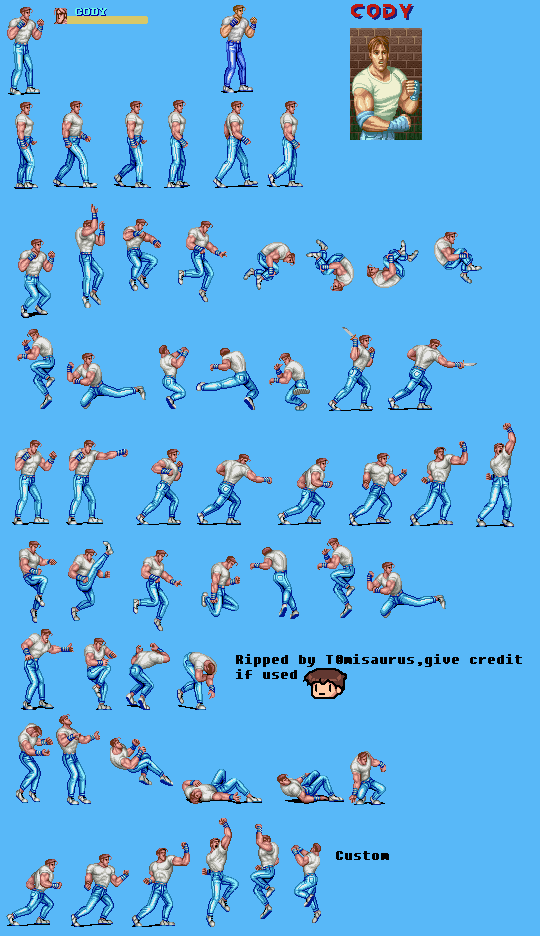
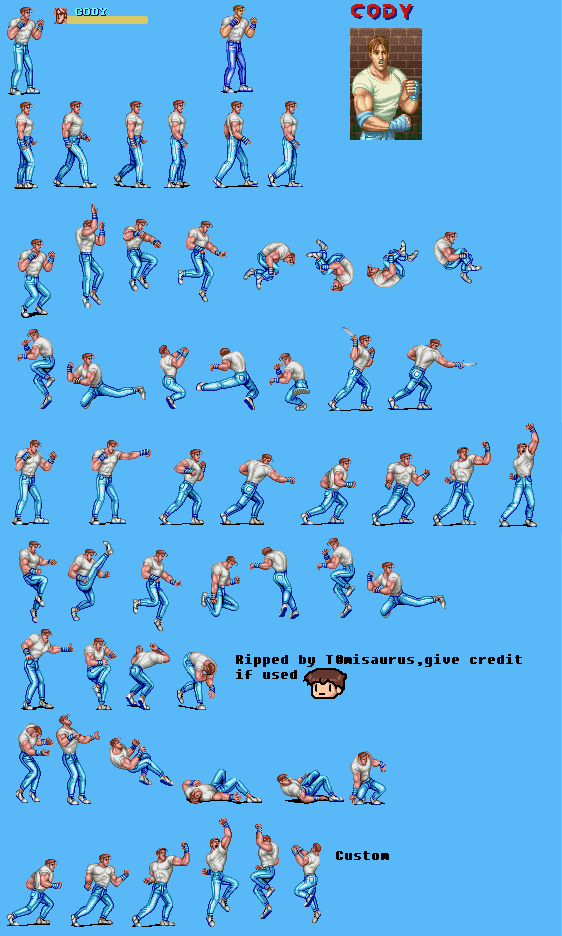
Fix sprite saltando.

diff --git a/estados/Saltando.cpp b/estados/Saltando.cpp
@@ -9,71 +9,71 @@
 #include "Caminando.h"
 
 Saltando::Saltando() {
-    Logger* logger = Locator::logger();
-    logger -> log(DEBUG, "Se instancio un objeto de clase Saltando");
+    Logger *logger = Locator::logger();
+    logger->log(DEBUG, "Se instancio un objeto de clase Saltando");
 }
 
 Saltando::~Saltando() {
-    Logger* logger = Locator::logger();
+    Logger *logger = Locator::logger();
     logger->log(DEBUG, "Se elimino un objeto de clase Saltando");
 }
 
 void Saltando::actualizar(Entidad *entidad) {
-    auto* velocidad = entidad->getEstado<Velocidad>("velocidad");
+    auto *velocidad = entidad->getEstado<Velocidad>("velocidad");
     velocidad->y = 0;
     velocidad->z = velocidadInicial + aceleracion * frames;
-    if (velocidad->z == -velocidadInicial){
+    if (velocidad->z == -velocidadInicial) {
         termine = true;
         velocidad->x = 0;
         velocidad->y = 0;
         velocidad->z = 0;
     }
-    frames ++;
+    frames++;
 }
 
 void Saltando::enter(Entidad *entidad) {
-    auto* velocidad = entidad->getEstado<Velocidad>("velocidad");
-    if (velocidad->x == 0){
-        auto* animacion = FabricaDeAnimacionesDeCody::saltando();
+    auto *velocidad = entidad->getEstado<Velocidad>("velocidad");
+    if (velocidad->x == 0) {
+        auto *animacion = FabricaDeAnimacionesDeCody::saltando();
         entidad->agregarEstado("animacion", animacion);
-    }else if ( velocidad->x != 0 ){
+    } else if (velocidad->x != 0) {
         auto *animacion = FabricaDeAnimacionesDeCody::saltandoAdelante();
         entidad->agregarEstado("animacion", animacion);
     }
 }
 
-void Saltando::caminar(Entidad * entidad, bool X_pos, bool X_neg, bool Y_pos, bool Y_neg) {
-    if ( Saltando::termine )
+void Saltando::caminar(Entidad *entidad, bool X_pos, bool X_neg, bool Y_pos, bool Y_neg) {
+    if (Saltando::termine)
         EstadoDePersonaje::caminar(entidad, X_pos, X_neg, Y_pos, Y_neg);
 }
 
-void Saltando::agachar(Entidad * entidad) {
-    if ( Saltando::termine )
+void Saltando::agachar(Entidad *entidad) {
+    if (Saltando::termine)
         EstadoDePersonaje::agachar(entidad);
 }
 
-void Saltando::reposar(Entidad * entidad) {
-    if ( Saltando::termine )
+void Saltando::reposar(Entidad *entidad) {
+    if (Saltando::termine)
         EstadoDePersonaje::reposar(entidad);
 }
 
 void Saltando::saltar(Entidad *entidad) {
-    if ( Saltando::termine )
+    if (Saltando::termine)
         EstadoDePersonaje::saltar(entidad);
 }
 
-void Saltando::golpear(Entidad * entidad) {
-    auto* velocidad = entidad->getEstado<Velocidad>("velocidad");
+void Saltando::golpear(Entidad *entidad) {
+    auto *velocidad = entidad->getEstado<Velocidad>("velocidad");
 
-    if ( ! Saltando::termine ) {
-        if ( velocidad->z >= 0) {
-            if ( ! pateando ) {
+    if (!Saltando::termine) {
+        if ((velocidad->z <= velocidadInicial) && (velocidad->z >= 0)) {
+            if (!pateando) {
                 auto *animacion = FabricaDeAnimacionesDeCody::patadaBasica();
                 entidad->agregarEstado("animacion", animacion);
                 pateando = true;
             }
         }
-    }else{
+    } else {
         EstadoDePersonaje::golpear(entidad);
     }
 }

diff --git a/graficos/FabricaDeAnimacionesDeCody.cpp b/graficos/FabricaDeAnimacionesDeCody.cpp
@@ -44,8 +44,8 @@ Animacion *FabricaDeAnimacionesDeCody::agachado() {
 
 Animacion* FabricaDeAnimacionesDeCody::golpear() {
     vector<SDL_Rect> posiciones = {
-            {10, 422, 48, 104}, //104 , 67 ancho_
-            {53, 422, 71, 104},
+            {6, 439, 51, 87}, //104 , 67 ancho_
+            {63, 439, 92, 87},
             /*{130, 420, 65, 104},
             {195, 420, 78, 104},
             {274, 420, 73, 104},
@@ -55,7 +55,7 @@ Animacion* FabricaDeAnimacionesDeCody::golpear() {
             //{475, 420, 60, 104},*/
     };
 
-    vector<float> duraciones = {1, 4};
+    vector<float> duraciones = {2, 4};
 
     return new Animacion(posiciones, duraciones, 15, 4.5);
 }
@@ -81,9 +81,10 @@ Animacion *FabricaDeAnimacionesDeCody::patadaBasica() {
             {245,  540, 60, 80},
             {315,  540, 50, 81},
             {360,  560, 85, 81},
+            {315,  540, 50, 81},
     };
 
-    vector<float> duraciones = {1, 2, 4};
+    vector<float> duraciones = {1, 1, 3, 2};
 
-    return new Animacion(posiciones, duraciones, 33, 4.5);
+    return new Animacion(posiciones, duraciones, 35, 4.5);
 }

diff --git a/estados/Golpeando.h b/estados/Golpeando.h
@@ -12,7 +12,7 @@ class Golpeando : public EstadoDePersonaje{
 private:
     bool termine = false;
     int frame = 0;
-    int frames_totales = 6;
+    int frames_totales = 15;
 public:
     Golpeando();
     ~Golpeando();
